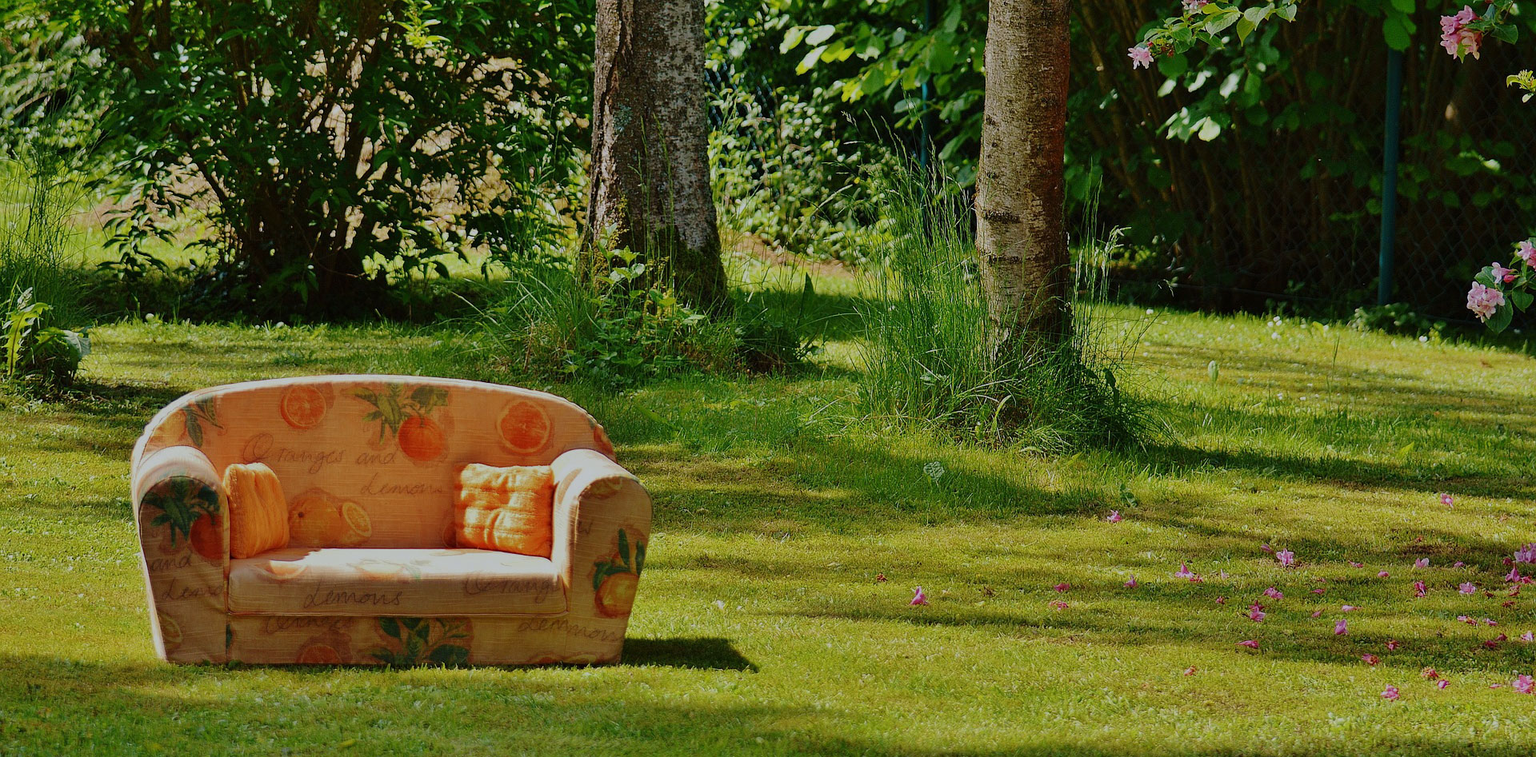
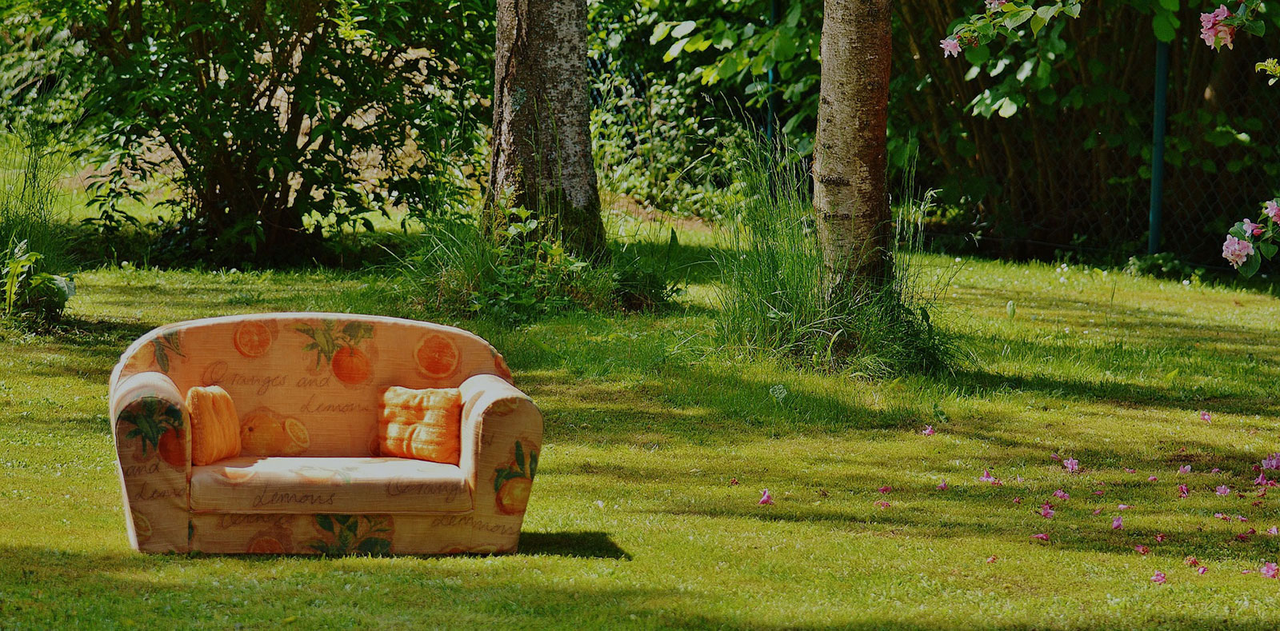
add mobile hero image

Changed region(s): [[0.5625, 0.4259, 0.7188, 0.5779], [0.6562, 0.5779, 0.6875, 0.6084]]

diff --git a/csrw/client/hero.html b/csrw/client/hero.html
@@ -15,7 +15,7 @@
 					</div>
 					<!-- <div><a class='nav-item' id="nav-why" href="why">Why hosting a refugee?</a></div> -->
 					<div><a class='nav-item' id="nav-what" href="http://www.couchsurfing.com/about/about-us/" target="_blank">{{_ "nav.what"}}</a></div>
-					<div><a class='nav-item' id="nav-contribute" href="https://github.com/grmmph/couchfugee">{{_ "nav.contribute"}}</a></div>
+					<div><a class='nav-item' id="nav-contribute" href="https://github.com/grmmph/couchfugee" target="_blank">{{_ "nav.contribute"}}</a></div>
 				</div>
 
 				<div class="six columns text-right hide-small">

diff --git a/csrw/client/styles/style.scss b/csrw/client/styles/style.scss
@@ -76,6 +76,9 @@ h1 {
 	position: relative;
 	@include transition(all 0.4s ease-in-out);
 	min-height: 0;
+	@media #{$small} {
+		background-image: url("/images/hero-small.jpg");
+	}
 	&.has-results {
 		min-height: none;
 		height: 260px;
